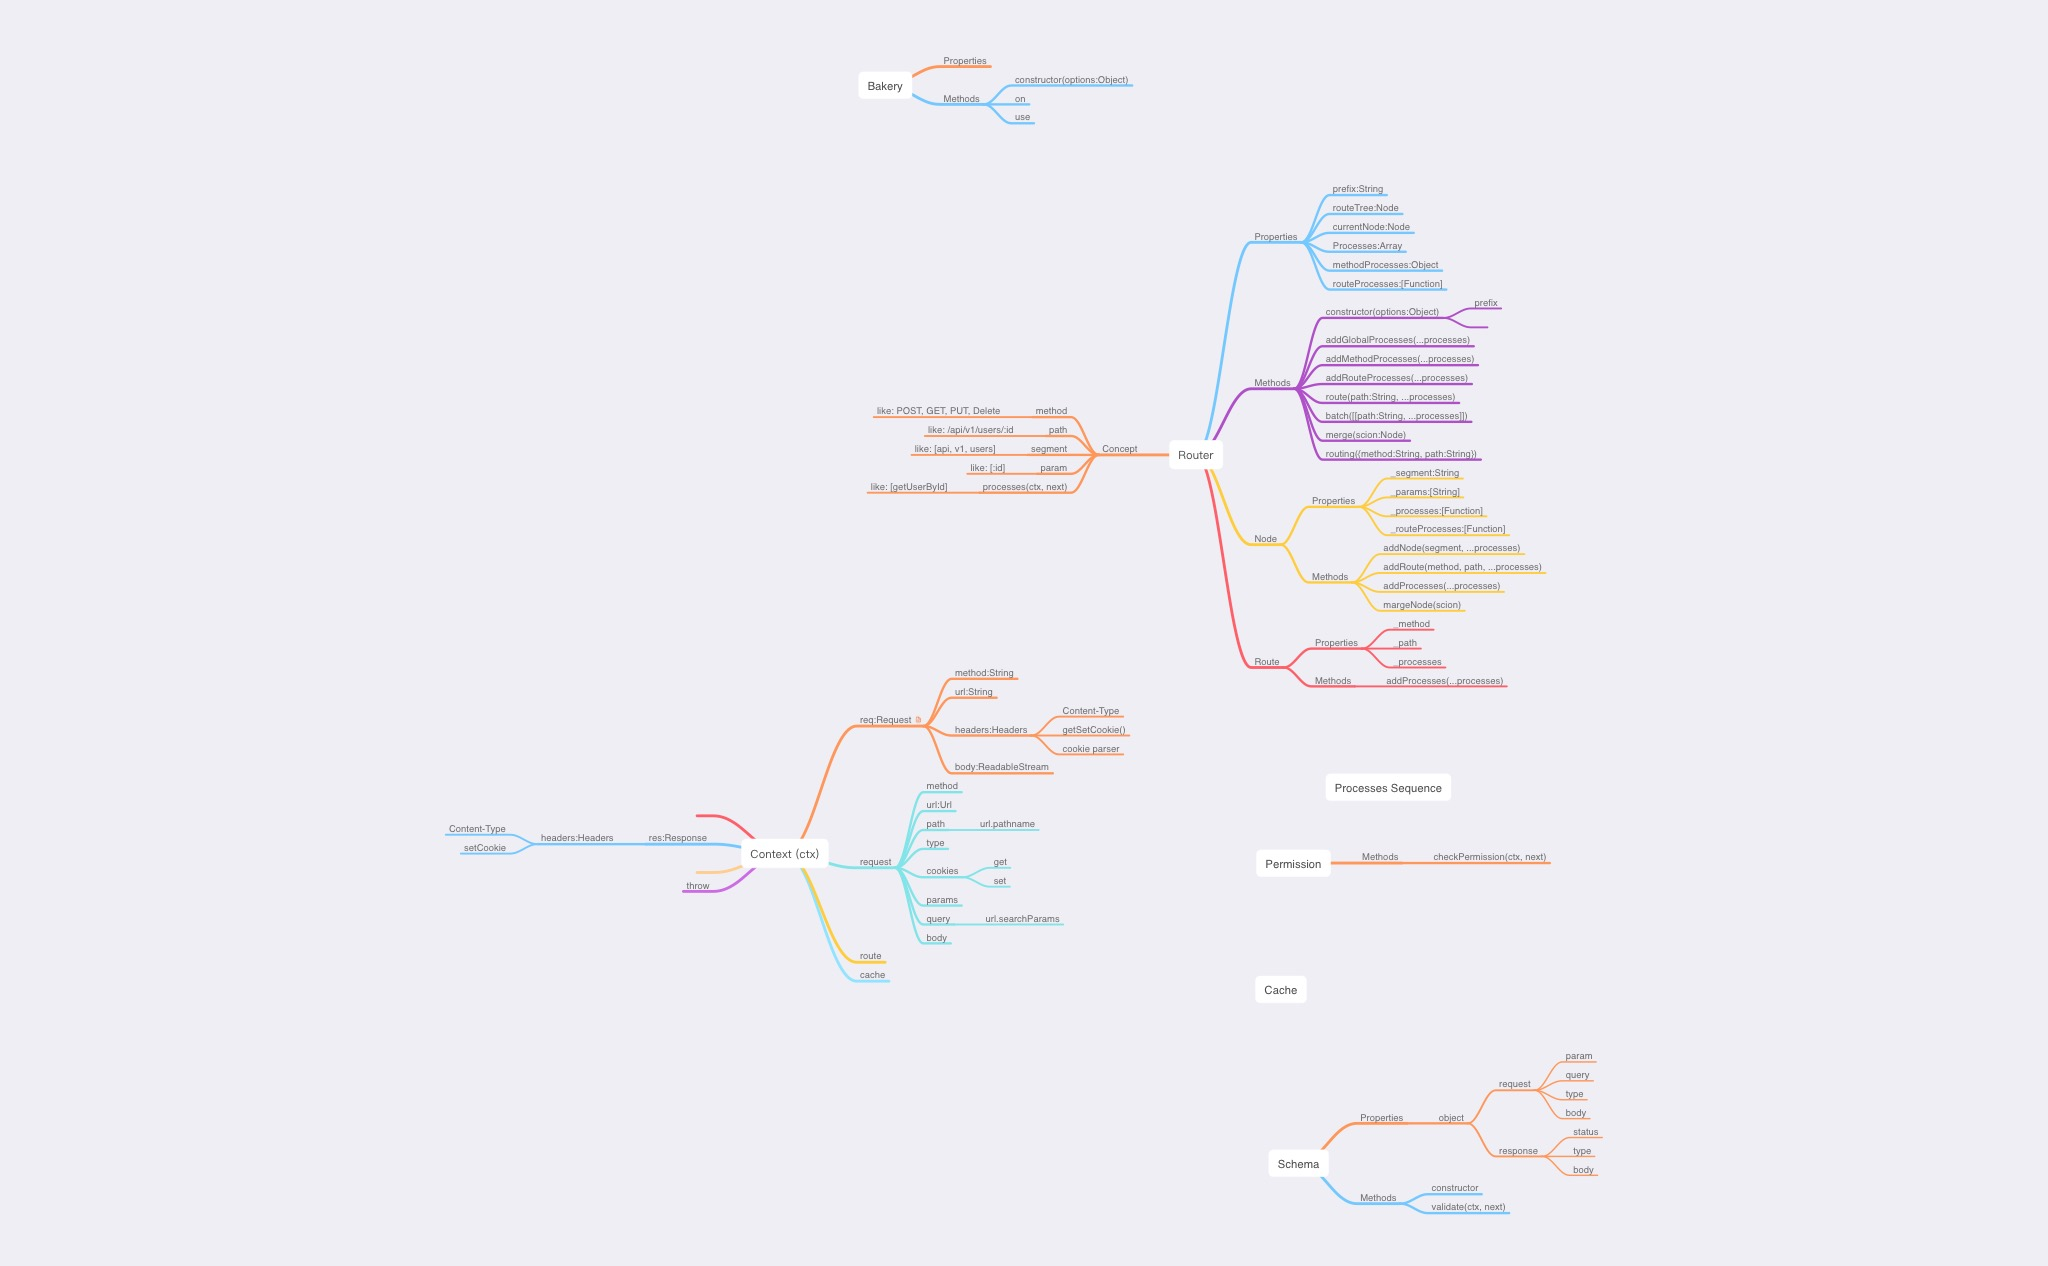
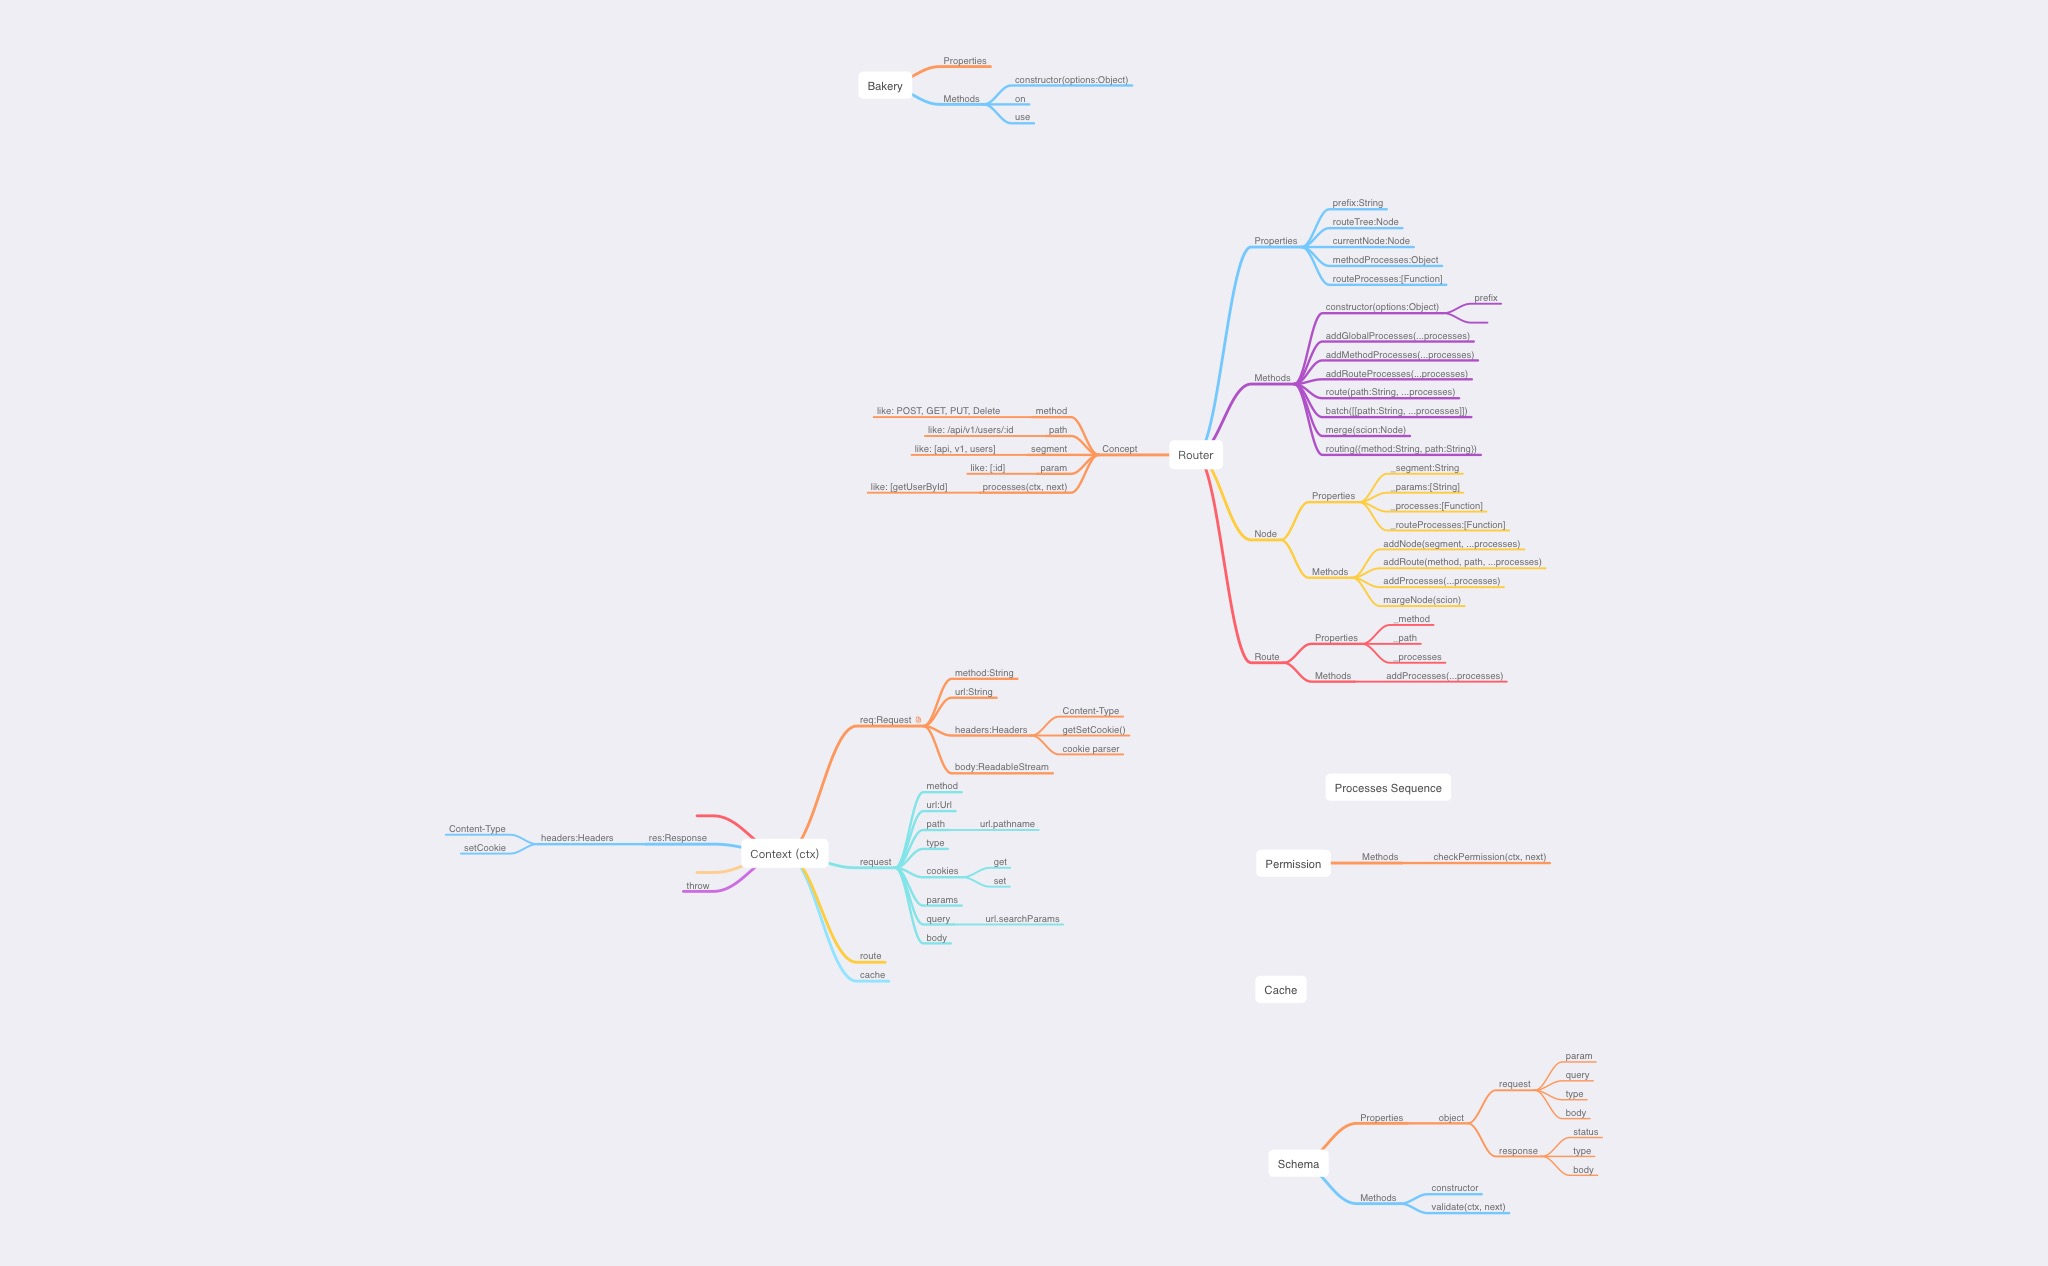
2023.11.16

Changed region(s): [[0.5938, 0.154, 0.75, 0.5545]]

diff --git a/modules/router/Router.test.js b/modules/router/Router.test.js
@@ -9,7 +9,8 @@ describe('router class', async () => {
     const router = new Router();
 
     expect(router).toBeInstanceOf(Router);
-    expect(router).toHaveProperty('addGlobalProcesses');
+    expect(router).toHaveProperty('addProcesses');
+    expect(router).toHaveProperty('addRouteProcesses');
     expect(router).toHaveProperty('addMethodProcesses');
     expect(router).toHaveProperty('route');
     expect(router).toHaveProperty('batch');
@@ -27,14 +28,24 @@ describe('router class', async () => {
     expect(() => { new Router({ prefix: '/api/v1/@' }); }).toThrow();
   });
 
-  await test('addGlobalProcesses', async () => {
+  await test('addProcesses', async () => {
     const router = new Router({ prefix: '/api/v1' });
 
-    expect(() => { router.addGlobalProcesses({}); }).toThrow();
+    expect(() => { router.addProcesses({}); }).toThrow();
 
-    router.addGlobalProcesses(() => {}, () => {});
+    router.addProcesses(() => {}, () => {});
 
     expect(router.routeTree._processes.length).toBe(2);
+  });
+
+  await test('addRouteProcesses', async () => {
+    const router = new Router({ prefix: '/api/v1' });
+
+    expect(() => { router.addRouteProcesses({}); }).toThrow();
+
+    router.addRouteProcesses(() => {}, () => {});
+
+    expect(router.routeTree._routeProcesses.length).toBe(2);
   });
 
   await test('addMethodProcesses', async () => {
@@ -48,7 +59,7 @@ describe('router class', async () => {
 
     router.addMethodProcesses('get', () => {}, () => {});
 
-    expect(router.methods.GET.length).toBe(2);
+    expect(router.methodProcesses.GET.length).toBe(2);
   });
 
   await test('route', async () => {
@@ -149,7 +160,7 @@ describe('router class', async () => {
   await test('routing', async () => {
     const router = new Router({ prefix: '/api/v1' });
 
-    router.addGlobalProcesses(() => {});
+    router.addProcesses(() => {});
 
     router.addMethodProcesses('GET', () => {});
 

diff --git a/modules/router/Router.js b/modules/router/Router.js
@@ -31,22 +31,20 @@ class Router {
       this.currentNode = this.currentNode.addNode(segment);
     });
 
-    this.methods = {};
-
-    // this.errors = {};
+    this.methodProcesses = {};
   }
 
-  // add global processes
-  addGlobalProcesses(...processes) {
-    // validate argument processes
-    if (processes.length === 0 || processes.some((fn) => (typeof fn !== 'function'))) {
-      throw new Error('Invalid Processes');
-    }
-
+  // add processes, which will be executed when starting routing
+  addProcesses(...processes) {
     this.routeTree.addProcesses(...processes);
   }
 
-  // add method processes
+  // add processes for all routes, which will be executed before routes processes
+  addRouteProcesses(...processes) {
+    this.routeTree.addRouteProcesses(...processes);
+  }
+
+  // add processes for methods, which will be executed before matching method routes processes
   addMethodProcesses(method, ...processes) {
     // validate argument method
     if (typeof method !== 'string' || !validCharactersInMethod.test(method)) {
@@ -69,16 +67,12 @@ class Router {
       throw new Error('Invalid Processes');
     }
 
-    if (this.methods[upperCasedMethod] === undefined) {
-      this.methods[upperCasedMethod] = [];
+    if (this.methodProcesses[upperCasedMethod] === undefined) {
+      this.methodProcesses[upperCasedMethod] = [];
     }
 
-    this.methods[upperCasedMethod].push(...processes);
+    this.methodProcesses[upperCasedMethod].push(...processes);
   }
-
-  // addErrorProcesses(...processes) {
-
-  // }
 
   // add a route to route tree
   route(path, ...processes) {
@@ -188,8 +182,8 @@ class Router {
       return undefined;
     }
 
-    if (this.methods[upperCasedMethod]) {
-      processes.push(...this.methods[method]);
+    if (this.methodProcesses[upperCasedMethod]) {
+      processes.push(...this.methodProcesses[method]);
     }
 
     return {

diff --git a/modules/router/Node.js b/modules/router/Node.js
@@ -30,6 +30,7 @@ class Node {
     // this._segment = param === undefined ? segment : ':param';
     this._params = new Set(param === undefined ? [] : [param]);
     this._processes = processes;
+    this._routeProcesses = [];
   }
 
   // add a sub node to the current node
@@ -116,6 +117,18 @@ class Node {
     }
 
     this._processes.push(...processes);
+
+    return this;
+  }
+
+  // add processes to all routes under the current node
+  addRouteProcesses(...processes) {
+    // validate argument processes
+    if (processes.length !== 0 && processes.some((fn) => (typeof fn !== 'function'))) {
+      throw new Error('Invalid Processes');
+    }
+
+    this._routeProcesses = processes;
 
     return this;
   }

diff --git a/modules/router/Node.test.js b/modules/router/Node.test.js
@@ -9,6 +9,7 @@ describe('node class', async () => {
     expect(node).toHaveProperty('addNode');
     expect(node).toHaveProperty('addRoute');
     expect(node).toHaveProperty('addProcesses');
+    expect(node).toHaveProperty('addRouteProcesses');
 
     // eslint-disable-next-line no-new
     expect(() => { new Node('_test'); }).toThrow();

diff --git a/modules/router/README.md b/modules/router/README.md
@@ -1,0 +1,52 @@
+# Bakery.js -- Router
+
+## Story
+
+Bakery.js router use `radix tree`[^1] structure to store routes called route tree (routeTree). All requests will try find a route from the route tree, and __only one__ [^2] route will be found per request. router use request's `method` and `path` to find a route. The path will be split into segments, and each `segment` will be as the key to find the `node` on the route tree. Router will __priority__[^3] try to find matching segment node, if not found, router will try to find `param` node and use segment as param value. If still not found, router will throw 404 error. If full path has been matched on the route tree node path, router will __priority__[^4] try to find matching method route, if not found, router will try to find `ALL` method route. If still not found, router will throw 405 error. In routing process, router will
+
+
+
+## Concepts
+
+* __Router__: The Router is the primary middleware in Bakery.js used for routing requests. It searches for a route within the routeTree. During this process, the Router activates node processes along the path and aggregates method processes, node route processes, and route processes. Once the Router has identified the appropriate route, these collected processes are utilized to process the request and generate a response.
+<br>
+
+* __prefix__: The prefix is the path prefix for all routes under the router. For example, if we have a route `GET:/users/:id`, and the prefix is `/api/v1`, the full path of the route is `/api/v1/users/:id`. When you setup prefix, router class constructor will generate nodes on the route tree, and set current node to the last node of the prefix path.
+<br>
+
+* RouteTree: RouteTree is the radix tree structure to store routes. It consists of Node and Route. It
+
+* Node:
+
+* Route:
+
+* Routing:
+
+* Segment:
+
+* Param:
+
+* Method:
+
+* Node Processes:
+
+* Method Processes:
+
+* Route Processes:
+
+
+
+
+
+
+
+
+
+
+[^1]: https://en.wikipedia.org/wiki/Radix_tree
+
+[^2]: Most of web frameworks router will find all matched routes, and dispatch the request to all of them. But this make me very frustrated. For example, if we have two routes: `GET:/users/current` and `GET:/users/:id` (This may not be a good example. RESTful API does not work like this), and a request `GET:/users/current`, the request will be dispatched to both routes. But this not what we want. We want the request only be dispatched to `/users/current`. So, Bakery.js router will only find one route per request.
+
+[^3]: The segment node always has higher priority than param node. For example, if we have two routes: `GET:/users/:id` and `GET:/users/current`, and a request `GET:/users/current`, the request will be dispatched to route `GET:/users/current`. no matter which route is defined first.
+
+[^4]: The Other Methods (GET, POST, PUT, DELETE, PATCH, HEAD, OPTIONS) always has higher priority than `ALL` method. For example, if we have two routes: `ALL:/users/:id` and `GET:/users/:id`, and a request `GET:/users/1000`, the request will be dispatched to route `GET:/users/:id`. no matter which route is defined first.

diff --git a/README.md b/README.md
@@ -7,9 +7,8 @@ A RESTful API framework based on Bun
 
 1. `Convention Over Configuration`
 
+
 2. `KISS: Keep It Simple, Stupid`
 
 
 ## bakery.js is not
-
-1.

diff --git a/blueprint/2023.11.md b/blueprint/2023.11.md
@@ -15,3 +15,5 @@
   - [ ] param 交给 router
   - [ ] query 交给 new URLSearchParams
   - [ ] body
+    - [ ] FormData
+    - [ ] JSON
